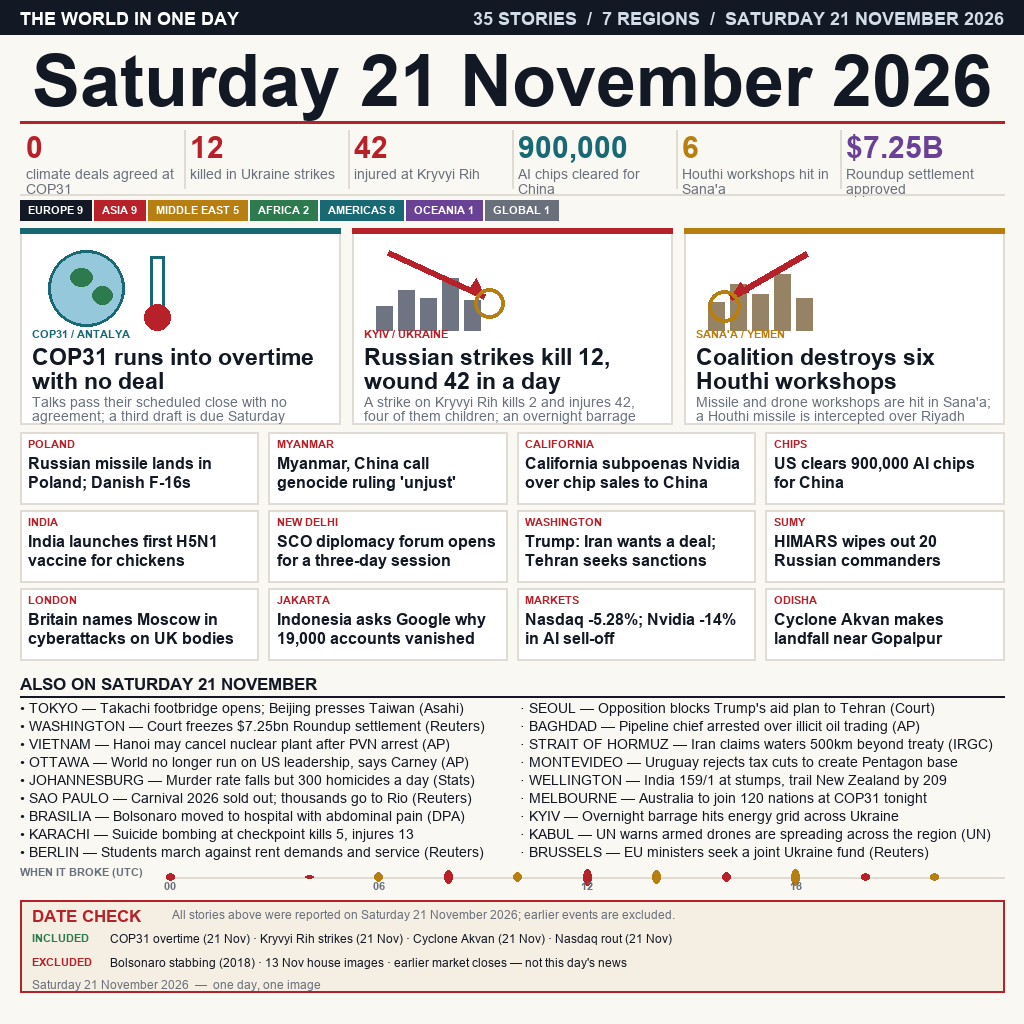
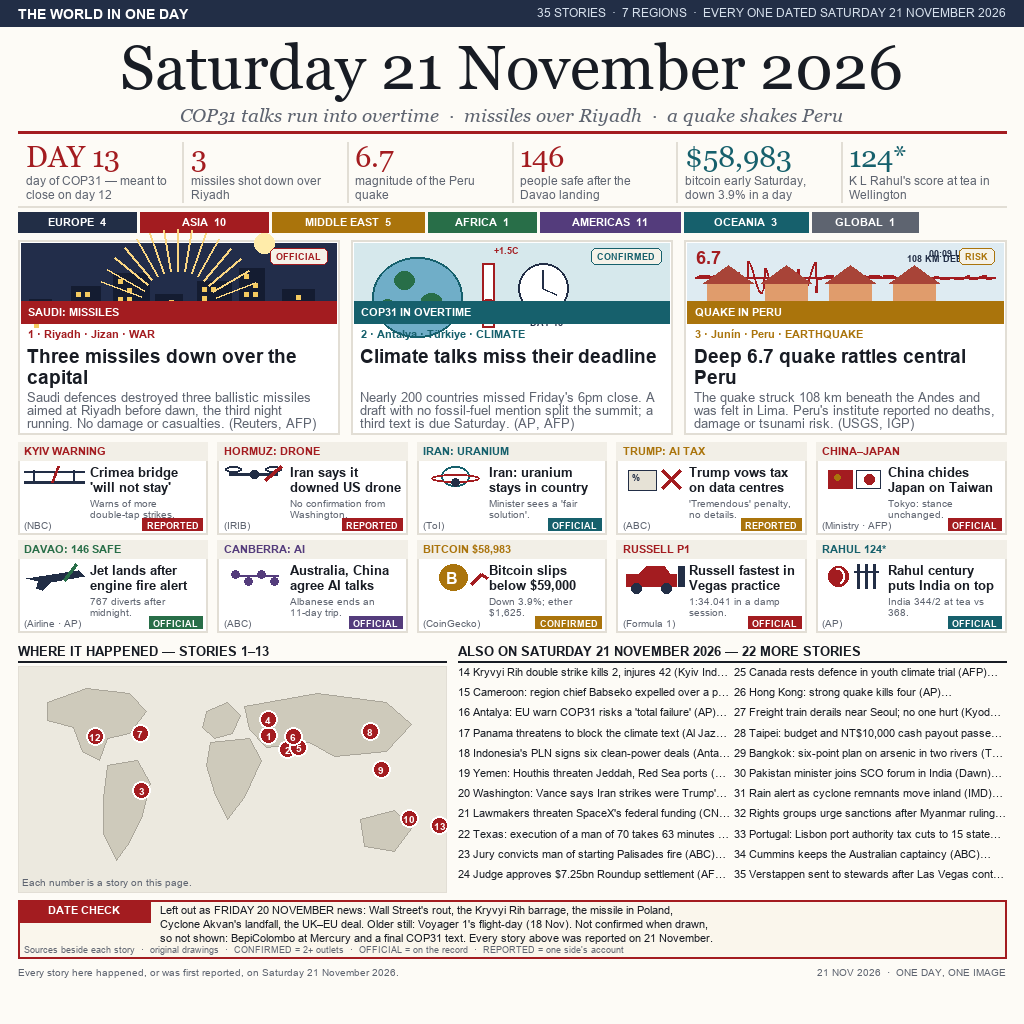
Front page from the updated 21 Nov digest, 35 stories

diff --git a/tools/draw_v4.py b/tools/draw_v4.py
@@ -1,0 +1,380 @@
+#!/usr/bin/env python3
+"""Front page for Saturday 21 November 2026, built from the day's verified digest.
+
+Every illustration here is an original vector drawing made with Pillow.
+The layout carries 35 dated stories, region counts, a location map, a wire
+list, and a date check that separates 21 November reporting from earlier news.
+"""
+from PIL import Image, ImageDraw, ImageFont
+
+F = "C:/Windows/Fonts/"
+def font(name, size):
+    return ImageFont.truetype(F + name, size)
+
+INK = (24, 28, 36)
+PAPER = (253, 251, 246)
+RED = (163, 28, 32)
+RED_D = (133, 21, 25)
+TEAL = (22, 96, 108)
+GOLD = (170, 116, 12)
+PURPLE = (84, 60, 124)
+GREEN = (40, 110, 72)
+NAVY = (34, 46, 70)
+GREY = (94, 100, 112)
+FAINT = (226, 222, 213)
+WHITE = (255, 255, 255)
+NIGHT = (34, 45, 74)
+
+SERIF = font("georgia.ttf", 62)
+SERIF_SM = font("georgia.ttf", 22)
+SERIF_IT = font("georgiai.ttf", 19)
+SMALLB = font("arialbd.ttf", 13)
+MICRO = font("arial.ttf", 11)
+MICROB = font("arialbd.ttf", 11)
+HEAD = font("arialbd.ttf", 19)
+CARDHEAD = font("arialbd.ttf", 13)
+BODY = font("arial.ttf", 12.5)
+TAGF = font("arialbd.ttf", 10.5)
+BADGE = font("arialbd.ttf", 9)
+WIREF = font("arial.ttf", 10.5)
+
+im = Image.new("RGB", (1024, 1024), PAPER)
+d = ImageDraw.Draw(im)
+
+def textw(s, fnt):
+    return d.textlength(s, font=fnt)
+
+def wrap(s, fnt, maxw):
+    lines, cur = [], ""
+    for w in s.split():
+        t = (cur + " " + w).strip()
+        if textw(t, fnt) <= maxw:
+            cur = t
+        else:
+            if cur:
+                lines.append(cur)
+            cur = w
+    if cur:
+        lines.append(cur)
+    return lines
+
+def lines(s, fnt, x, y, maxw, n, fill, lh=None, size=None):
+    lh = lh or (size or (fnt.size + 3))
+    for i, ln in enumerate(wrap(s, fnt, maxw)[:n]):
+        d.text((x, y + i * lh), ln, font=fnt, fill=fill)
+    return y + len(wrap(s, fnt, maxw)[:n]) * lh
+
+def clip(s, fnt, maxw):
+    out = s
+    while out and textw(out + "…", fnt) > maxw:
+        out = out[:-1]
+    return out + "…"
+
+# ---------------- masthead ----------------
+d.rectangle([0, 0, 1024, 26], fill=NAVY)
+d.text((18, 6), "THE WORLD IN ONE DAY", font=font("arialbd.ttf", 14), fill=WHITE)
+d.text((1006, 6), "35 STORIES  ·  7 REGIONS  ·  EVERY ONE DATED SATURDAY 21 NOVEMBER 2026",
+       font=font("arial.ttf", 12), fill=(214, 224, 236), anchor="ra")
+d.text((512, 32), "Saturday 21 November 2026", font=SERIF, fill=INK, anchor="ma")
+d.text((512, 104), "COP31 talks run into overtime  ·  missiles over Riyadh  ·  a quake shakes Peru",
+       font=SERIF_IT, fill=GREY, anchor="ma")
+d.line([18, 132, 1006, 132], fill=RED, width=3)
+
+# ---------------- lead statistics ----------------
+STATS = [
+    ("DAY 13", "day of COP31 — meant to close on day 12", RED),
+    ("3", "missiles shot down over Riyadh", RED),
+    ("6.7", "magnitude of the Peru quake", RED),
+    ("146", "people safe after the Davao landing", RED),
+    ("$58,983", "bitcoin early Saturday, down 3.9% in a day", TEAL),
+    ("124*", "K L Rahul's score at tea in Wellington", TEAL),
+]
+CW = 988 / 6
+for i, (big, cap, col) in enumerate(STATS):
+    x = 18 + i * CW
+    d.text((x + 8, 140), big, font=font("georgia.ttf", 29), fill=col)
+    lines(cap, font("arial.ttf", 11.5), x + 8, 174, CW - 18, 2, GREY, 14)
+    if i:
+        d.line([x, 142, x, 202], fill=FAINT, width=2)
+d.line([18, 206, 1006, 206], fill=FAINT, width=2)
+
+# ---------------- region bar ----------------
+REGIONS = [("EUROPE  4", NAVY, 118), ("ASIA  10", RED, 128),
+           ("MIDDLE EAST  5", GOLD, 152), ("AFRICA  1", GREEN, 108),
+           ("AMERICAS  11", PURPLE, 140), ("OCEANIA  3", TEAL, 124),
+           ("GLOBAL  1", GREY, 106)]
+x = 18
+for label, col, width in REGIONS:
+    d.rectangle([x, 212, x + width, 232], fill=col)
+    d.text((x + width / 2, 216), label, font=TAGF, fill=WHITE, anchor="ma")
+    x += width + 4
+
+# ---------------- illustration helpers ----------------
+def label_bar(x, y, w, label, col=RED):
+    d.rectangle([x, y, x + w, y + 22], fill=col)
+    d.text((x + 7, y + 5), label, font=TAGF, fill=WHITE)
+
+def night_city(x, y, w, h, flare=True):
+    d.rectangle([x, y, x + w, y + h], fill=NIGHT)
+    for i in range(7):
+        bw = 22 + (i * 7) % 16
+        bx = x + 8 + i * (w - 20) / 7
+        bh = 24 + (i * 13) % 34
+        d.rectangle([bx, y + h - bh, bx + bw, y + h], fill=(20, 28, 49))
+        for r in range(3):
+            for c in range(2):
+                if (i + r + c) % 3:
+                    d.rectangle([bx + 5 + c * 9, y + h - bh + 6 + r * 9,
+                                 bx + 9 + c * 9, y + h - bh + 10 + r * 9], fill=(244, 202, 96))
+    if flare:
+        import math
+        for a in range(20, 161, 10):
+            t = math.radians(a)
+            d.line([x + w / 2 + 40 * math.cos(t), y + h - 12 - 40 * math.sin(t),
+                    x + w / 2 + 82 * math.cos(t), y + h - 12 - 82 * math.sin(t)],
+                   fill=(250, 214, 130), width=2)
+        d.ellipse([x + w / 2 + 76, y + h - 90, x + w / 2 + 96, y + h - 70], fill=(255, 236, 170))
+
+def cop_globe(x, y, w, h):
+    d.rectangle([x, y, x + w, y + h], fill=(214, 232, 236))
+    d.ellipse([x + 18, y + 14, x + 108, y + 94], fill=(112, 174, 200), outline=TEAL, width=2)
+    d.ellipse([x + 40, y + 28, x + 60, y + 46], fill=GREEN)
+    d.ellipse([x + 66, y + 50, x + 88, y + 70], fill=GREEN)
+    d.ellipse([x + 26, y + 56, x + 40, y + 66], fill=GREEN)
+    d.rectangle([x + 128, y + 20, x + 140, y + 84], fill=WHITE, outline=RED, width=2)
+    d.ellipse([x + 122, y + 56, x + 146, y + 76], fill=RED)
+    d.ellipse([x + 164, y + 20, x + 214, y + 70], fill=WHITE, outline=NAVY, width=2)
+    d.line([x + 189, y + 45, x + 189, y + 27], fill=NAVY, width=2)
+    d.line([x + 189, y + 45, x + 202, y + 51], fill=NAVY, width=2)
+    d.text((x + 140, y + 2), "+1.5C", font=BADGE, fill=RED)
+    d.text((x + 176, y + 74), "DAY 13", font=BADGE, fill=NAVY)
+
+def quake_scene(x, y, w, h):
+    d.rectangle([x, y, x + w, y + h], fill=(222, 235, 242))
+    d.line([x + 8, y + 34, x + w - 8, y + 34], fill=RED, width=2)
+    import math
+    pts = []
+    for i in range(int(w - 20)):
+        px = x + 10 + i
+        amp = 16 if 40 < i < 120 else 2
+        py = y + 34 + amp * math.sin(i / 4.5) * (1 if (i // 17) % 2 else -1)
+        pts.append((px, py))
+    d.line(pts, fill=RED, width=2)
+    for i, bx in enumerate((20, 78, 142, 206)):
+        bw = 42
+        d.rectangle([x + bx, y + h - 40, x + bx + bw, y + h - 12], fill=(224, 156, 108))
+        d.polygon([(x + bx - 4, y + h - 40), (x + bx + bw / 2, y + h - 58),
+                   (x + bx + bw + 4, y + h - 40)], fill=(168, 68, 56))
+    d.text((x + 8, y + 4), "6.7", font=font("arialbd.ttf", 18), fill=RED)
+    d.text((x + w - 74, y + 5), "00:09 UTC", font=BADGE, fill=NAVY)
+    d.text((x + w - 96, y + h - 70), "108 KM DEEP", font=BADGE, fill=NAVY)
+
+def icon_small(kind, x, y):
+    """Small original pictograms for the ten card grid."""
+    if kind == "bridge":
+        d.line([x, y + 18, x + 60, y + 18], fill=NAVY, width=3)
+        d.line([x + 10, y + 18, x + 10, y + 6], fill=NAVY, width=2)
+        d.line([x + 50, y + 18, x + 50, y + 6], fill=NAVY, width=2)
+        d.line([x, y + 7, x + 60, y + 7], fill=NAVY, width=2)
+        d.line([x + 28, y + 18, x + 34, y + 2], fill=RED, width=3)
+    elif kind == "drone":
+        d.line([x + 6, y + 10, x + 54, y + 10], fill=NAVY, width=3)
+        d.ellipse([x + 26, y + 6, x + 36, y + 14], fill=NAVY)
+        for cx in (x + 10, x + 50):
+            d.ellipse([cx - 8, y + 2, cx + 8, y + 8], outline=NAVY, width=2)
+        d.line([x + 58, y + 2, x + 42, y + 16], fill=RED, width=3)
+    elif kind == "atom":
+        d.ellipse([x + 18, y + 2, x + 46, y + 22], outline=TEAL, width=2)
+        d.ellipse([x + 8, y + 10, x + 56, y + 18], outline=RED, width=2)
+        d.ellipse([x + 28, y + 14, x + 36, y + 22], fill=NAVY)
+    elif kind == "tax":
+        d.rectangle([x + 6, y + 6, x + 34, y + 26], fill=(230, 226, 214), outline=NAVY)
+        d.line([x + 40, y + 6, x + 58, y + 24], fill=RED, width=4)
+        d.line([x + 58, y + 6, x + 40, y + 24], fill=RED, width=4)
+        d.text((x + 9, y + 8), "%", font=BADGE, fill=NAVY)
+    elif kind == "flags":
+        d.rectangle([x + 6, y + 6, x + 30, y + 24], fill=RED)
+        d.ellipse([x + 12, y + 10, x + 18, y + 16], fill=GOLD)
+        d.rectangle([x + 34, y + 6, x + 58, y + 24], fill=WHITE, outline=NAVY)
+        d.ellipse([x + 42, y + 10, x + 52, y + 20], fill=RED)
+    elif kind == "plane":
+        d.polygon([(x + 2, y + 16), (x + 54, y + 8), (x + 60, y + 14),
+                   (x + 26, y + 20), (x + 18, y + 28), (x + 12, y + 26),
+                   (x + 14, y + 19)], fill=NAVY)
+        d.line([x + 40, y + 18, x + 52, y + 2], fill=GREEN, width=3)
+    elif kind == "ai":
+        for i in range(4):
+            d.ellipse([x + 8 + i * 13, y + 8 + (i % 2) * 7,
+                       x + 16 + i * 13, y + 16 + (i % 2) * 7], fill=PURPLE)
+        d.line([x + 12, y + 13, x + 55, y + 13], fill=PURPLE, width=2)
+    elif kind == "bitcoin":
+        d.ellipse([x + 16, y + 2, x + 44, y + 28], fill=GOLD)
+        d.text((x + 23, y + 7), "B", font=font("arialbd.ttf", 16), fill=WHITE)
+        d.line([x + 48, y + 22, x + 58, y + 12, x + 64, y + 16], fill=RED, width=3)
+    elif kind == "car":
+        d.rectangle([x + 4, y + 12, x + 54, y + 24], fill=RED)
+        d.polygon([(x + 16, y + 12), (x + 24, y + 4), (x + 42, y + 4),
+                   (x + 48, y + 12)], fill=RED)
+        for cx in (x + 14, x + 44):
+            d.ellipse([cx - 5, y + 21, cx + 5, y + 31], fill=NAVY)
+        d.rectangle([x + 56, y + 4, x + 62, y + 24], fill=NAVY)
+    elif kind == "cricket":
+        d.ellipse([x + 6, y + 4, x + 26, y + 24], fill=RED)
+        d.arc([x + 10, y + 6, x + 22, y + 22], start=250, end=70, fill=WHITE, width=2)
+        for sx in (x + 36, x + 44, x + 52):
+            d.line([sx, y + 2, sx, y + 26], fill=NAVY, width=3)
+        d.line([x + 32, y + 9, x + 56, y + 9], fill=NAVY, width=2)
+
+# ---------------- three lead stories ----------------
+LEADS = [
+    (1, "Riyadh · Jizan", "WAR", "SAUDI: MISSILES", "night",
+     "Three missiles down over the capital",
+     "Saudi defences destroyed three ballistic missiles aimed at Riyadh before dawn, the third night running. No damage or casualties. (Reuters, AFP)",
+     "OFFICIAL", RED),
+    (2, "Antalya · Türkiye", "CLIMATE", "COP31 IN OVERTIME", "cop",
+     "Climate talks miss their deadline",
+     "Nearly 200 countries missed Friday's 6pm close. A draft with no fossil-fuel mention split the summit; a third text is due Saturday. (AP, AFP)",
+     "CONFIRMED", TEAL),
+    (3, "Junín · Peru", "EARTHQUAKE", "QUAKE IN PERU", "quake",
+     "Deep 6.7 quake rattles central Peru",
+     "The quake struck 108 km beneath the Andes and was felt in Lima. Peru's institute reported no deaths, damage or tsunami risk. (USGS, IGP)",
+     "RISK", GOLD),
+]
+LW = (988 - 24) / 3
+for i, (num, place, section, tag, art, head, body, badge, col) in enumerate(LEADS):
+    x = 18 + i * (LW + 12)
+    y = 240
+    d.rectangle([x, y, x + LW, y + 194], fill=WHITE, outline=FAINT, width=2)
+    iy, ih = y + 3, 80
+    if art == "night":
+        night_city(x + 3, iy, LW - 6, ih)
+    elif art == "cop":
+        cop_globe(x + 3, iy, LW - 6, ih)
+    else:
+        quake_scene(x + 3, iy, LW - 6, ih)
+    label_bar(x + 3, iy + ih - 22, LW - 6, tag, col)
+    bw = textw(badge, BADGE) + 12
+    d.rounded_rectangle([x + LW - bw - 12, iy + 5, x + LW - 12, iy + 21], radius=5,
+                        fill=(245, 242, 233), outline=col, width=1)
+    d.text((x + LW - bw / 2 - 12, iy + 8), badge, font=BADGE, fill=col, anchor="ma")
+    d.text((x + 10, y + 88), f"{num} · {place} · {section}", font=TAGF, fill=col)
+    ty = y + 105
+    for ln in wrap(head, HEAD, LW - 20)[:2]:
+        d.text((x + 9, ty), ln, font=HEAD, fill=INK)
+        ty += 21
+    lines(body, BODY, x + 9, y + 150, LW - 20, 3, GREY, 13)
+
+# ---------------- ten smaller stories ----------------
+CARDS = [
+    (4, "KYIV WARNING", "bridge", "Crimea bridge 'will not stay'", "Warns of more double-tap strikes.", "NBC", "REPORTED", RED),
+    (5, "HORMUZ: DRONE", "drone", "Iran says it downed US drone", "No confirmation from Washington.", "IRIB", "REPORTED", RED),
+    (6, "IRAN: URANIUM", "atom", "Iran: uranium stays in country", "Minister sees a 'fair solution'.", "ToI", "OFFICIAL", TEAL),
+    (7, "TRUMP: AI TAX", "tax", "Trump vows tax on data centres", "'Tremendous' penalty, no details.", "ABC", "REPORTED", GOLD),
+    (8, "CHINA–JAPAN", "flags", "China chides Japan on Taiwan", "Tokyo: stance unchanged.", "Ministry · AFP", "OFFICIAL", RED),
+    (9, "DAVAO: 146 SAFE", "plane", "Jet lands after engine fire alert", "767 diverts after midnight.", "Airline · AP", "OFFICIAL", GREEN),
+    (10, "CANBERRA: AI", "ai", "Australia, China agree AI talks", "Albanese ends an 11-day trip.", "ABC", "OFFICIAL", PURPLE),
+    (11, "BITCOIN $58,983", "bitcoin", "Bitcoin slips below $59,000", "Down 3.9%; ether $1,625.", "CoinGecko", "CONFIRMED", GOLD),
+    (12, "RUSSELL P1", "car", "Russell fastest in Vegas practice", "1:34.041 in a damp session.", "Formula 1", "OFFICIAL", RED),
+    (13, "RAHUL 124*", "cricket", "Rahul century puts India on top", "India 344/2 at tea vs 368.", "AP", "OFFICIAL", TEAL),
+]
+CW2 = (988 - 4 * 10) / 5
+for i, (num, tag, art, head, body, src, badge, col) in enumerate(CARDS):
+    row, colidx = divmod(i, 5)
+    x = 18 + colidx * (CW2 + 10)
+    y = 442 + row * 98
+    d.rectangle([x, y, x + CW2, y + 92], fill=WHITE, outline=FAINT, width=2)
+    d.rectangle([x, y, x + CW2, y + 18], fill=(242, 239, 231))
+    d.text((x + 6, y + 3), tag, font=TAGF, fill=col)
+    icon_small(art, x + 6, y + 22)
+    lines(head, CARDHEAD, x + 72, y + 23, CW2 - 78, 2, INK, 15)
+    lines(body, font("arial.ttf", 10), x + 72, y + 55, CW2 - 78, 2, GREY, 11)
+    d.text((x + 6, y + 78), f"({src})", font=font("arial.ttf", 9.5), fill=GREY)
+    bw = textw(badge, BADGE) + 8
+    d.rectangle([x + CW2 - bw - 5, y + 76, x + CW2 - 5, y + 88], fill=col)
+    d.text((x + CW2 - bw / 2 - 5, y + 78), badge, font=BADGE, fill=WHITE, anchor="ma")
+
+# ---------------- where it happened ----------------
+d.text((18, 644), "WHERE IT HAPPENED — STORIES 1–13", font=SMALLB, fill=INK)
+d.line([18, 661, 446, 661], fill=INK, width=2)
+mx, my, mw, mh = 18, 666, 428, 226
+d.rectangle([mx, my, mx + mw, my + mh], fill=(236, 233, 223), outline=FAINT)
+
+def poly(points, fillc, outc=(170, 166, 154)):
+    d.polygon([(mx + px * mw, my + py * mh) for px, py in points], fill=fillc, outline=outc)
+
+LAND = (206, 202, 187)
+# rough continent silhouettes, enough to read as a world map at this size
+poly([(0.07, 0.16), (0.16, 0.10), (0.26, 0.12), (0.30, 0.20), (0.26, 0.30),
+      (0.21, 0.32), (0.19, 0.42), (0.15, 0.38), (0.13, 0.27), (0.07, 0.24)], LAND)
+poly([(0.21, 0.44), (0.28, 0.42), (0.31, 0.52), (0.29, 0.66), (0.26, 0.78),
+      (0.23, 0.86), (0.20, 0.74), (0.20, 0.58)], LAND)
+poly([(0.44, 0.20), (0.49, 0.16), (0.52, 0.22), (0.50, 0.30), (0.46, 0.32),
+      (0.43, 0.27)], LAND)
+poly([(0.45, 0.34), (0.54, 0.32), (0.57, 0.42), (0.53, 0.58), (0.49, 0.68),
+      (0.46, 0.56), (0.44, 0.44)], LAND)
+poly([(0.53, 0.18), (0.70, 0.12), (0.86, 0.16), (0.92, 0.26), (0.86, 0.38),
+      (0.74, 0.40), (0.68, 0.34), (0.58, 0.36), (0.54, 0.28)], LAND)
+poly([(0.80, 0.68), (0.88, 0.64), (0.92, 0.72), (0.88, 0.82), (0.81, 0.80)], LAND)
+
+GEO = [(1,36.9,30.7),(2,24.7,46.7),(3,-11.2,-76.0),(4,50.5,30.5),(5,26.6,56.3),
+       (6,35.7,51.4),(7,38.9,-77.0),(8,39.9,116.4),(9,7.2,125.5),(10,-35.3,149.1),
+       (12,36.2,-115.1),(13,-41.3,174.8)]
+for n, lat, lon in GEO:
+    gx = mx + (lon + 180) / 360 * mw
+    gy = my + (90 - lat) / 180 * mh * 0.92 + 8
+    r = 9
+    d.ellipse([gx - r, gy - r, gx + r, gy + r], fill=RED, outline=WHITE, width=2)
+    d.text((gx, gy + 0.5), str(n), font=font("arialbd.ttf", 10), fill=WHITE, anchor="mm")
+d.text((22, my + mh - 16), "Each number is a story on this page.", font=font("arial.ttf", 10), fill=GREY)
+
+# ---------------- wire list ----------------
+wx = 458
+d.text((wx, 644), "ALSO ON SATURDAY 21 NOVEMBER 2026 — 22 MORE STORIES", font=SMALLB, fill=INK)
+d.line([wx, 661, 1006, 661], fill=INK, width=2)
+WIRE = [
+    "14 Kryvyi Rih double strike kills 2, injures 42 (Kyiv Ind.)",
+    "15 Cameroon: region chief Babseko expelled over a plot (Al Jazeera)",
+    "16 Antalya: EU warn COP31 risks a 'total failure' (AP)",
+    "17 Panama threatens to block the climate text (Al Jazeera)",
+    "18 Indonesia's PLN signs six clean-power deals (Antara)",
+    "19 Yemen: Houthis threaten Jeddah, Red Sea ports (Al Jazeera)",
+    "20 Washington: Vance says Iran strikes were Trump's decision (Reuters)",
+    "21 Lawmakers threaten SpaceX's federal funding (CNN)",
+    "22 Texas: execution of a man of 70 takes 63 minutes (ABC)",
+    "23 Jury convicts man of starting Palisades fire (ABC)",
+    "24 Judge approves $7.25bn Roundup settlement (AFP)",
+    "25 Canada rests defence in youth climate trial (AFP)",
+    "26 Hong Kong: strong quake kills four (AP)",
+    "27 Freight train derails near Seoul; no one hurt (Kyodo)",
+    "28 Taipei: budget and NT$10,000 cash payout passed",
+    "29 Bangkok: six-point plan on arsenic in two rivers (The Nation)",
+    "30 Pakistan minister joins SCO forum in India (Dawn)",
+    "31 Rain alert as cyclone remnants move inland (IMD)",
+    "32 Rights groups urge sanctions after Myanmar ruling (AP)",
+    "33 Portugal: Lisbon port authority tax cuts to 15 states",
+    "34 Cummins keeps the Australian captaincy (ABC)",
+    "35 Verstappen sent to stewards after Las Vegas contact (Autosport)",
+]
+for i, s in enumerate(WIRE):
+    col, row = divmod(i, 11)
+    d.text((wx + col * 276, 666 + row * 20.2), clip(s, WIREF, 272), font=WIREF, fill=INK)
+
+# ---------------- date check ----------------
+d.rectangle([18, 900, 1006, 958], fill=(250, 246, 236), outline=RED, width=2)
+d.rectangle([18, 900, 150, 922], fill=RED)
+d.text((84, 904), "DATE CHECK", font=TAGF, fill=WHITE, anchor="ma")
+d.text((160, 904), "Left out as FRIDAY 20 NOVEMBER news: Wall Street's rout, the Kryvyi Rih barrage, the missile in Poland,",
+       font=font("arial.ttf", 10.5), fill=INK)
+d.text((160, 918), "Cyclone Akvan's landfall, the UK–EU deal. Older still: Voyager 1's flight-day (18 Nov). Not confirmed when drawn,",
+       font=font("arial.ttf", 10.5), fill=INK)
+d.text((160, 932), "so not shown: BepiColombo at Mercury and a final COP31 text. Every story above was reported on 21 November.",
+       font=font("arial.ttf", 10.5), fill=INK)
+d.text((24, 944), "Sources beside each story  ·  original drawings  ·  CONFIRMED = 2+ outlets  ·  OFFICIAL = on the record  ·  REPORTED = one side's account",
+       font=font("arial.ttf", 9), fill=GREY)
+
+d.text((18, 966), "Every story here happened, or was first reported, on Saturday 21 November 2026.",
+       font=font("arial.ttf", 10), fill=GREY)
+d.text((1006, 966), "21 NOV 2026  ·  ONE DAY, ONE IMAGE", font=font("arial.ttf", 10), fill=GREY, anchor="ra")
+
+im.save("entry.png", optimize=True)
+print("wrote entry.png v4", im.size)
